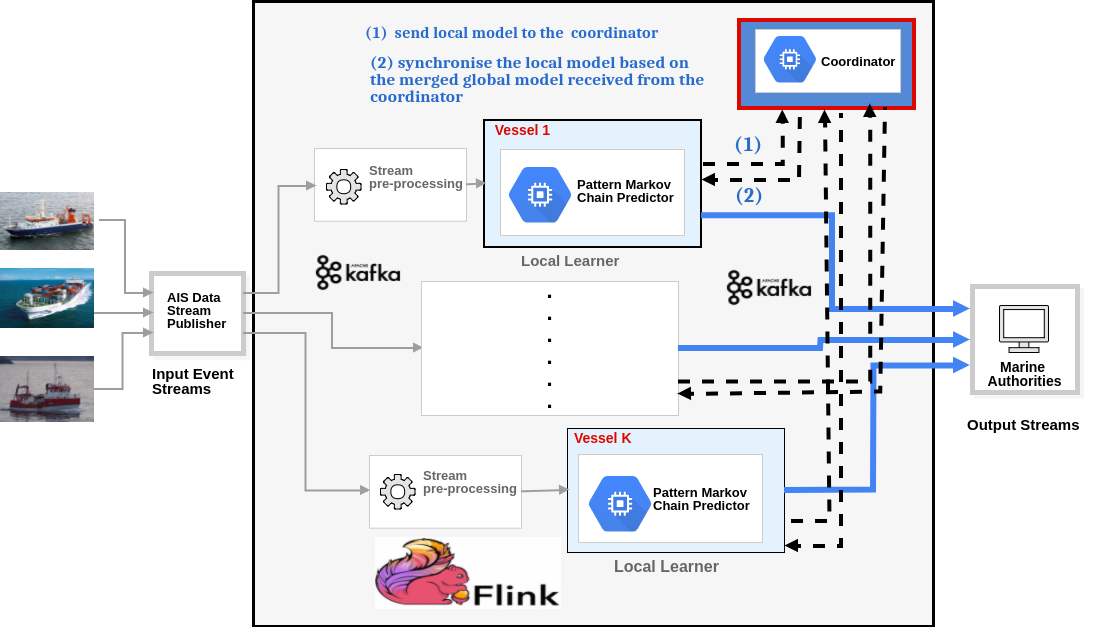
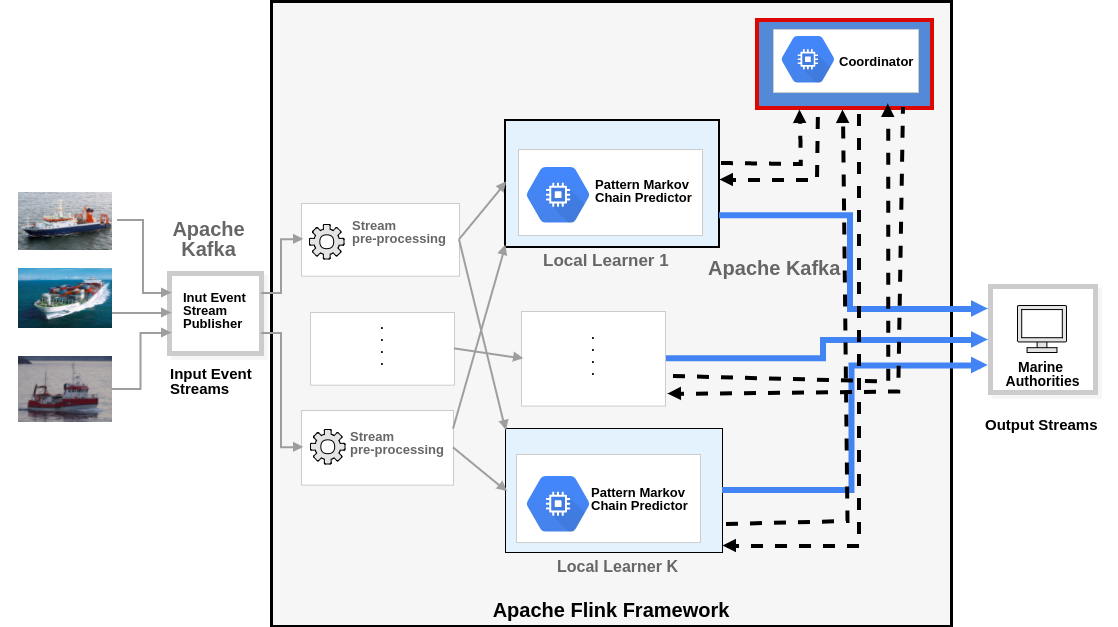
updates

Changed region(s): [[0.0, 0.0, 0.9891, 1.0], [0.34, 0.0303, 0.5873, 0.0606]]

diff --git a/technological_background.tex b/technological_background.tex
@@ -1,4 +1,4 @@
-\subsection{Technological background}
+\subsection{Technological Background}
 In the last years, many systems for large-scale and distributed stream processing have been proposed, including Spark Streaming \cite{Spark},  Apache Storm \cite{Storm} and Apache Flink \cite{Flink}. These framework allow to ingest real-time data streams from different sources such as  Aws Kinesis \cite{Kinesis} and Apache Kafka \cite{Kafka}. We implemented the proposed system over Apache Flink which provides the distributed stream processing components of the distributed predictors, alongside  Apache kafka for streaming the input event streams, and as a messaging platform to enable the distributed online learning functionalities.
 
 
@@ -8,16 +8,16 @@ the local models for each incoming data streams and there is a Bolt representing
 the local models. As the synchronization protocol includes the steps of sending the local models to the coordinator (for merging the models) and of sending
 the merged model back, it results in a cyclic workflow structure, which is supported in Storm. 
 
-\subsubsection*{Apache Flink:}
+\subsubsection*{Apache Flink:\\}
 
-Apache Flink is an open source project that provides a large-scale, distributed and stateful stream processing platform \cite{carbone2015apache}. Flink is one of the recent and common big data processing frameworks, it employees data-stream processing model for streaming and batch data, the batch processing is treated as a special case of streaming applications (i.e., finite stream). The Flink's software stack includes the  $DataStream$ and $DataSet$ APIs for processing infinite and finite data, respectively. These two core APIs built on the top of the Flink's core distributed streaming dataflow engine. Additionally, Flink provides libraries such as Complex event processing for Flink (Flink-CEP), Machine Learning for Flink (FlinkML) and Flink Graph API (Gelly) \cite{carbone2015apache}.
+\par Apache Flink is an open source project that provides a large-scale, distributed and stateful stream processing platform \cite{carbone2015apache}. Flink is one of the recent and common big data processing frameworks, it employees data-stream processing model for streaming and batch data, the batch processing is treated as a special case of streaming applications (i.e., finite stream). The Flink's software stack includes the  $DataStream$ and $DataSet$ APIs for processing infinite and finite data, respectively. These two core APIs built on the top of the Flink's core distributed streaming dataflow engine. Additionally, Flink provides libraries such as Complex event processing for Flink (Flink-CEP), Machine Learning for Flink (FlinkML) and Flink Graph API (Gelly) \cite{carbone2015apache}.
 
 \par The main data abstractions of Flink are $DataStream$ and $DataSet$ that represent read-only collection of data elements. The list of elements is bounded (i.e., finite) in $DataSet$, while it is unbounded (i.e., infinite) in the case of $DataStream$. The Flink's core is a distributed streaming dataflow engine, with each
 Flink program is represented by a data-flow graph (i.e., directed acyclic graph - DAG) that executed by the Flink's engine \cite{carbone2015apache}. The data flow graphs are composed of stateful (state is maintained per partition), parallel operations and intermediate data stream partitions.
 
-\subsubsection*{Apache Kafka:}
+\subsubsection*{Apache Kafka:\\}
 
-Apache Kafka is scalable, fault-tolerant and distributed streaming framework \cite{Kafka}. It allows to publish and subscribe to arbitrary data streams. Kafka manages the stream records in different categories (i.e., topics) that are partitioned and distributed over the Kafka servers. It provides the ability to publish a stream of records to one or more Kafka topic, to be consumed by applications that can subscribe to one or more topic to read data streams. The stream is distribute and balance between receivers within the same group for the sake of scalability.
+\par Apache Kafka is scalable, fault-tolerant and distributed streaming framework \cite{Kafka}. It allows to publish and subscribe to arbitrary data streams. Kafka manages the stream records in different categories (i.e., topics) that are partitioned and distributed over the Kafka servers. It provides the ability to publish a stream of records to one or more Kafka topic, to be consumed by applications that can subscribe to one or more topic to read data streams. The stream is distribute and balance between receivers within the same group for the sake of scalability.
   
 
 

diff --git a/system.tex b/system.tex
@@ -1,5 +1,5 @@
 \section{SYSTEM OVERVIEW}
-\subsection{Problem formulation}
+\subsection{Problem Formulation}
 %refine the stream and event pattern %
 %define the pattern we deal formally%
 % include base line 1 batch size in experemintal results%
@@ -31,9 +31,9 @@ The defined pattern $\mathcal{P}$ is monitored over each event stream $s_i$  by 
 \par Our proposed approach is imposing a speed up in the learning of the prediction models with less training data, in addition, we expect to gain an improvement of the predictive performance compared to the no-distributed  version of event forecasting with Pattern Markov Chains system. 
 
 
-\subsection{Distributed architecture}
-
-Figure ~\ref{fig:architecture} presents the overview of our system architecture and its main components. It consumes an aggregated input events stream \footnote{In practical, this aggregated input events stream is composed of multiple input event streams for multiple moving objects.} of large number of moving objects, which are continuously collected and fed into the system. Our system processes theses events, and produces an output events stream enriched with predictions about a  pattern $\mathcal{P}$ by the domain expert. 
+\subsection{Distributed Architecture}
+\label{sec:architecture}
+Our system consumes an aggregated events stream as input\footnote{In practical, the aggregated input events stream is composed of multiple input event streams for multiple moving objects, which are reconstructed bt the system internally.} of large number of moving objects, which is continuously collected and fed into the system. It allows users to register a pattern $\mathcal{P}$ to be monitored over each event stream of a moving object. Output stream consists of original input events alongside with predictions of full matches of $\mathcal{P}$ is outputted to be displayed to the end users. Figure ~\ref{fig:architecture} presents the overview of our system architecture and its main components. 
 
 
 \begin{figure}[h]

diff --git a/distributedOnlineLearning.tex b/distributedOnlineLearning.tex
@@ -1,4 +1,4 @@
-\subsection{Distributed online learning}
+\subsection{Distributed Online Learning}
 
 Distributed online prediction by mini-batch based approach has been proposed in \cite{dekel2012optimal}. Their approach is based on a static synchronization method,  the learners periodically communicate  their local models with a central coordinator unit after consuming a fixed number of input samples/events, in order to  create a global model and share it between all learners. This work has been extended in \cite{kamp2014communication} by introducing a
 dynamic synchronization scheme that reduces the required communication by monitoring the variance of the local models from a global reference point. In this paper, we address to use the communication-efficient distributed online learning protocol for event patterns prediction, which is internally based on the Pattern Markov Chain (PMC) predictors. The following section gives a detailed description of the synchronization protocol.

diff --git a/implementaion.tex b/implementaion.tex
@@ -1,5 +1,6 @@
 \section{IMPLEMENTATION DETAILS}
-This sections describes the system's implementation over \emph{Apache Flink} and Apache Kafka. Algorithm ~\ref{algonline:flink1} shows how the system's workflow  is implemented as pipeline in Flink.
+
+Our system has been implemented on top of Apache Flink and Apcache Kafka frameworks. Each of the three sub-modules described in Section  ~\ref{sec:architecture} have been implemented as Flink Job or operation. Algorithm ~\ref{algonline:flink1} shows how the system's workflow  is implemented as pipeline in Flink.
 
 \begin{algorithm}
 	\caption{Flink pipeline for system workflow} 
